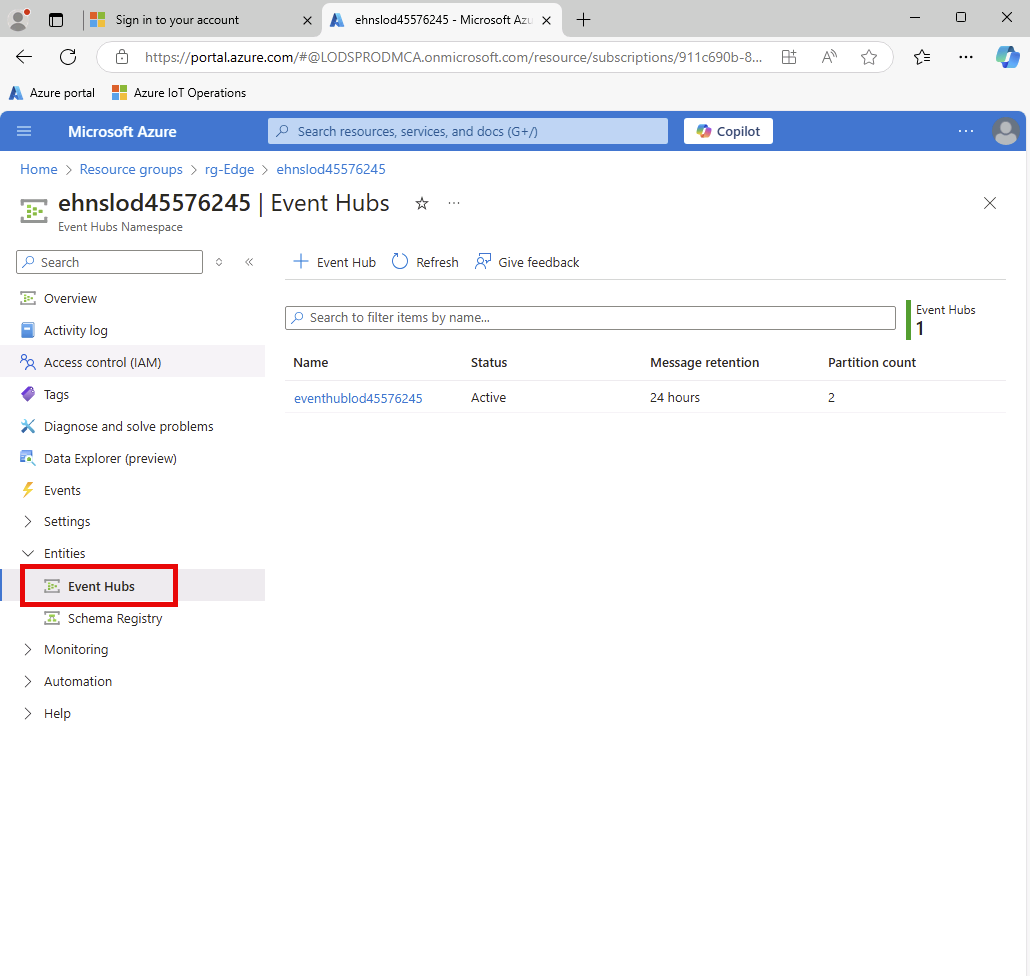
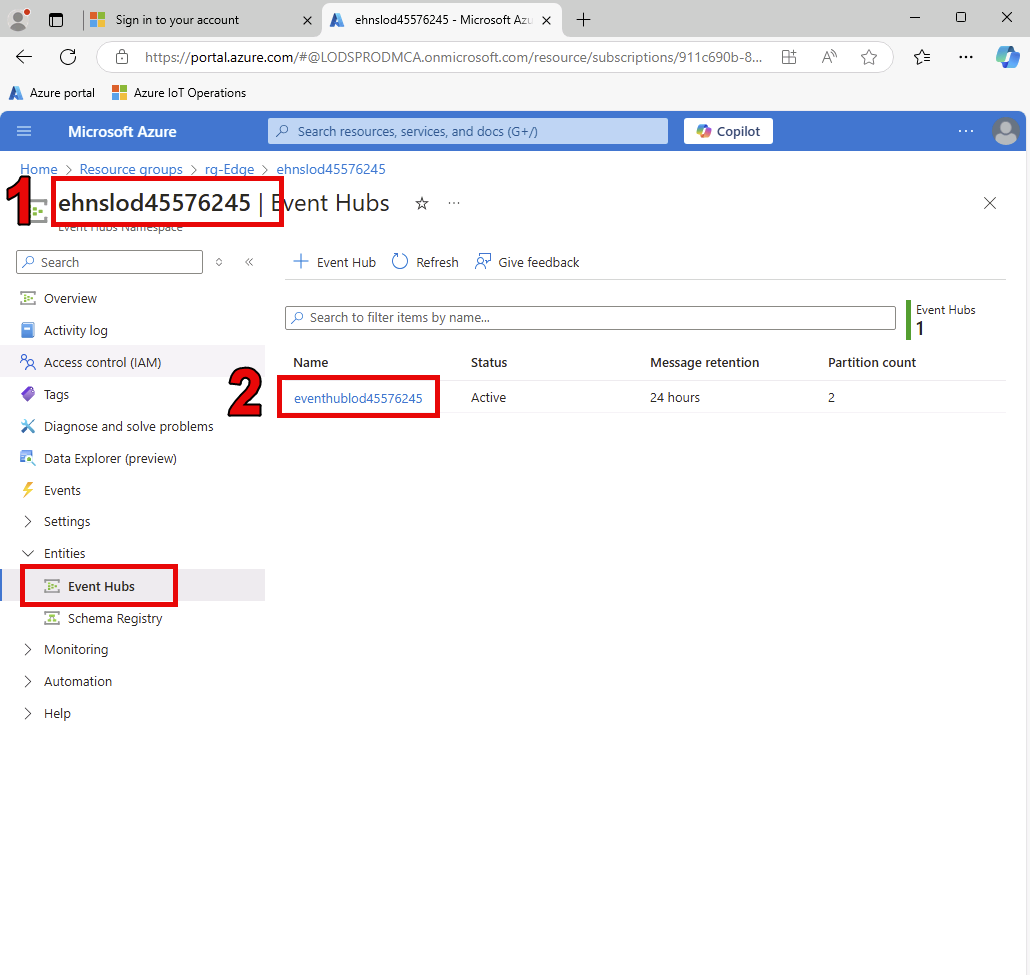
iot fixes

diff --git a/labguide/module2_iot.md b/labguide/module2_iot.md
@@ -219,15 +219,17 @@ Open the Azure portal and navigate to your rg-Edge resource group. Find the Even
 
 !IMAGE[Finding Event Hub](./img/portaleventhub.png)
 
-Next, click on Entities and then Event Hubs. The Event Hub that has been precreated for you can be used with a Dataflow Endpoint. You will need both the name of the Event Hub namespace (#1 in the screenshot), and the name of the Event Hub topic (#2 in the screenshot).
+Next, click on Entities and then Event Hubs. The Event Hub that has been precreated for you can be used with a Dataflow Endpoint. You will need both the name of the Event Hub namespace (#1 in the screenshot), and the name of the Event Hub (#2 in the screenshot).
 
-!IMAGE[Finding Event Hub topic](./img/eventhubtopic.png)
+!IMAGE[Finding Event Hub](./img/eventhubtopic.png)
 
 Now return to the Azure IoT Operations Experience portal and click on Dataflow Endpoints on the left, then click the button to add a new Event Hub endpoint.
 
 !IMAGE[Create dataflow endpoint](./img/newdceh.png)
 
-Enter a name for the dataflow endpoint and enter the Event Hub namespace name (#1) into the service endpoint prefix.
+Enter a name for the dataflow endpoint and enter the Event Hub namespace name (#1) into the service endpoint prefix. Press Apply when finished.
+
+!IMAGE[Create dataflow endpoint detail](./img/create_endpoint_namespace.png)
 
 ### **Step 4 - Create a dataflow**
 
@@ -243,7 +245,7 @@ Select the dataflow endpoint we just created.
 
 !IMAGE[Endpoint](./img/ep2.png)
 
-For topic, enter the topic name we retrieved earlier (#2 in the screenshot)
+For topic, enter the name of the event hub we retrieved earlier (#2 in the screenshot)
 
 !IMAGE[Topic](./img/ep3.png)
 
